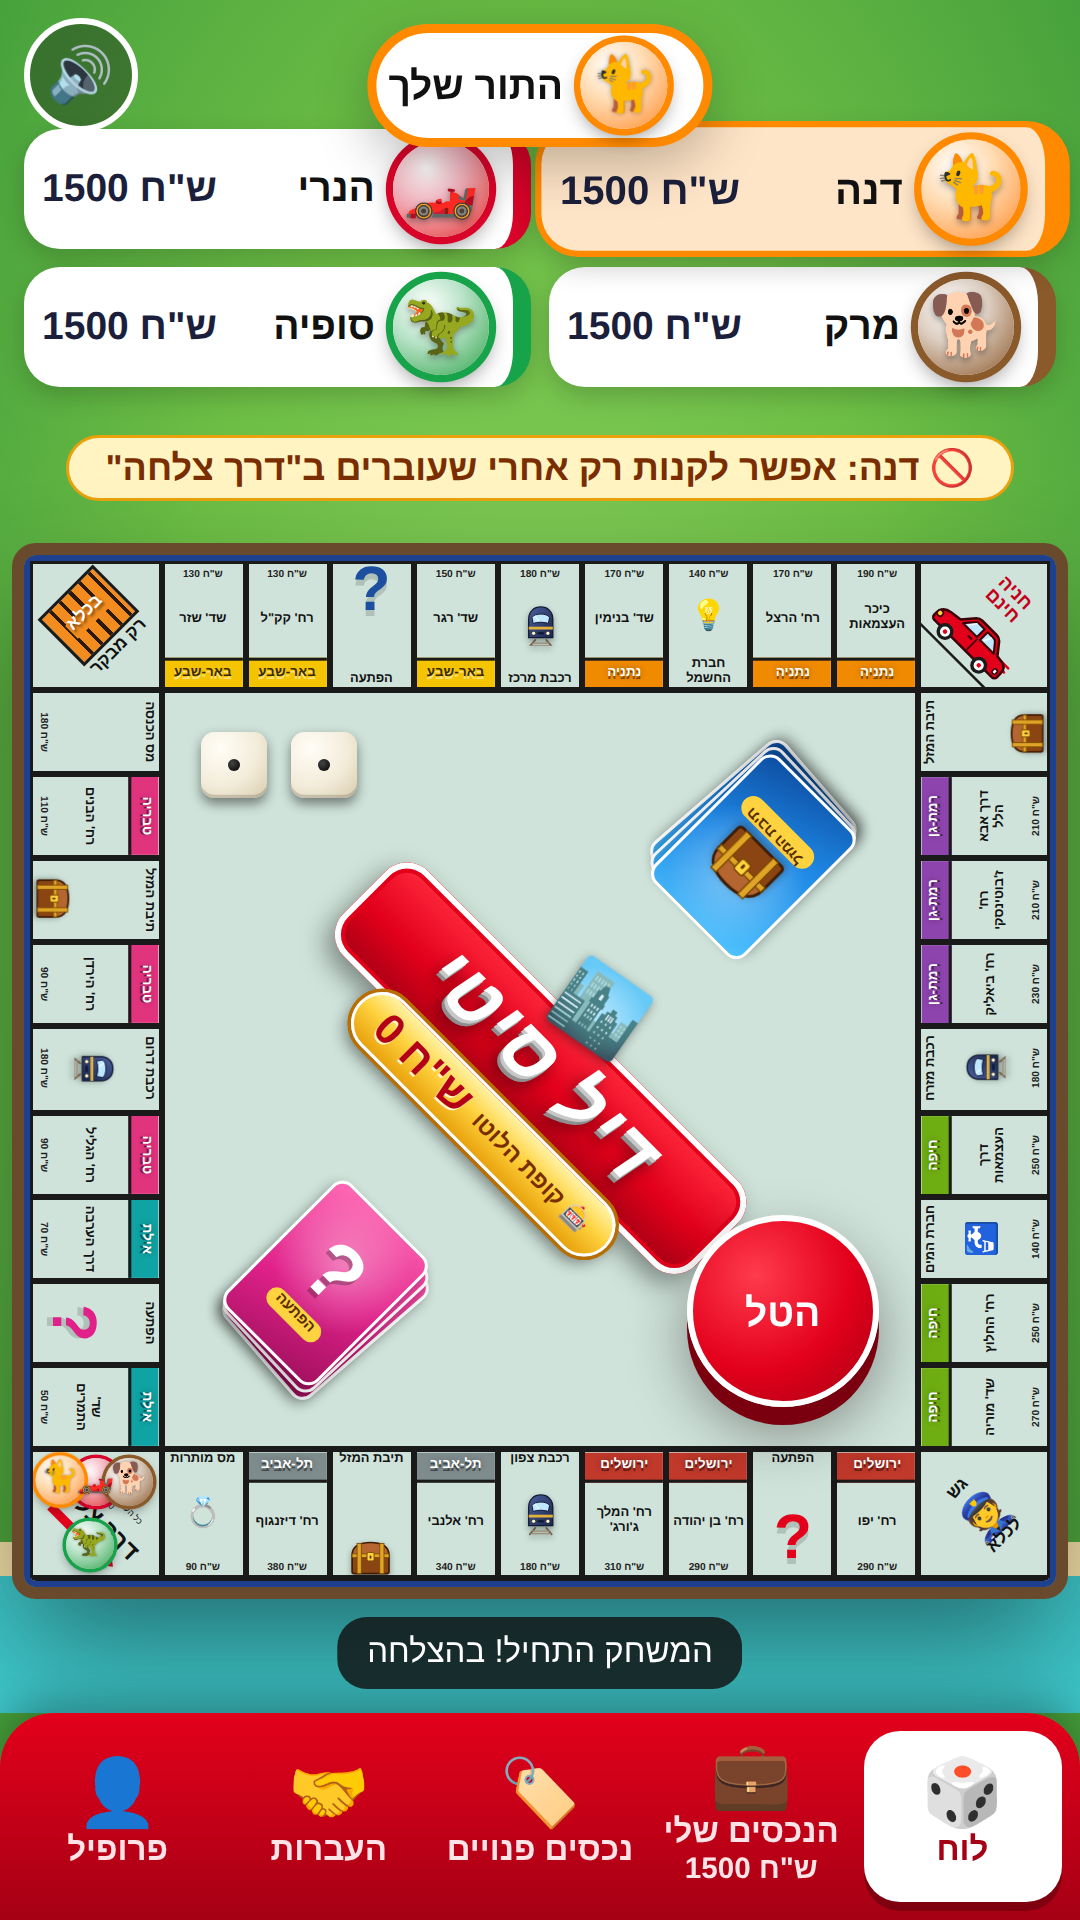
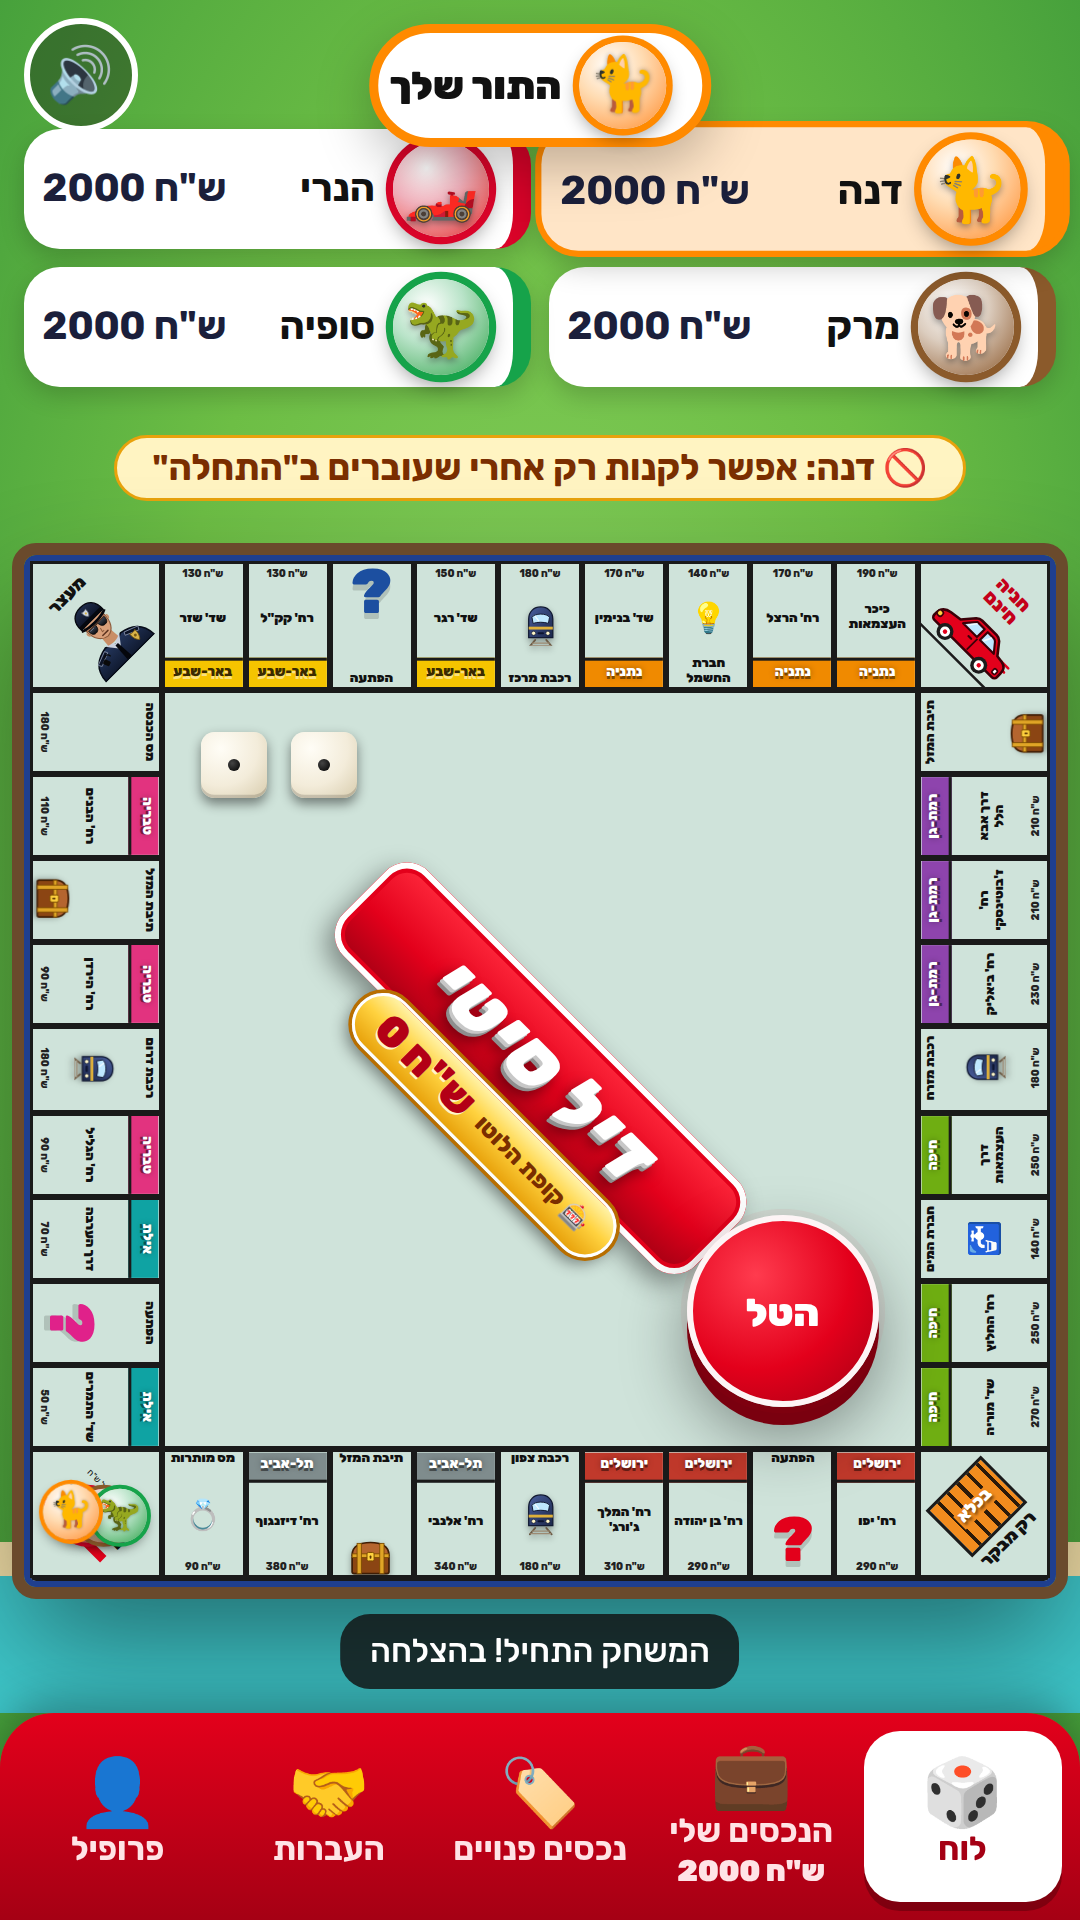
Store screenshots and promo source updated for the current game
New screenshots (2000 start money, swapped jail corners, rules quiz) and
the promo money counter starts at 2000.

Claude-Session: https://claude.ai/code/session_01U7kxiau7BTo1gBj5RHrhSx

diff --git a/store/promo/src/promo.html b/store/promo/src/promo.html
@@ -252,7 +252,7 @@ function scene3(t) {
   });
   const rk = prog(lt, 2.5, 2.8);
   put(S3.rent, { x: xs[2], y: ty - th / 2 - tw * 0.95 - rk * 4 * U, fs: (LAND ? 3.6 : 4.6) * U, s: eBack(rk), r: -6, o: rk > 0 ? o * (1 - prog(lt, 3.3, 3.5)) : 0 });
-  const money = Math.round(lerp(1500, 2590, eOut(prog(lt, 1.8, 3.0))) / 10) * 10;
+  const money = Math.round(lerp(2000, 3090, eOut(prog(lt, 1.8, 3.0))) / 10) * 10;
   S3.counter.textContent = '💰 ' + CUR + money.toLocaleString('en-US');
   put(S3.counter, { x: VIS.x, y: cy, fs: (LAND ? 5.6 : 7) * U, s: eBack(prog(lt, 0.3, 0.7)) * (1 + 0.06 * Math.sin(prog(lt, 2.75, 2.95) * Math.PI)), o });
   animHeadline(S3.h, t, T.build[0] + 0.2, TXT.y, TXT.fs * (LAND ? 0.82 : 0.86), TXT.x, o);
